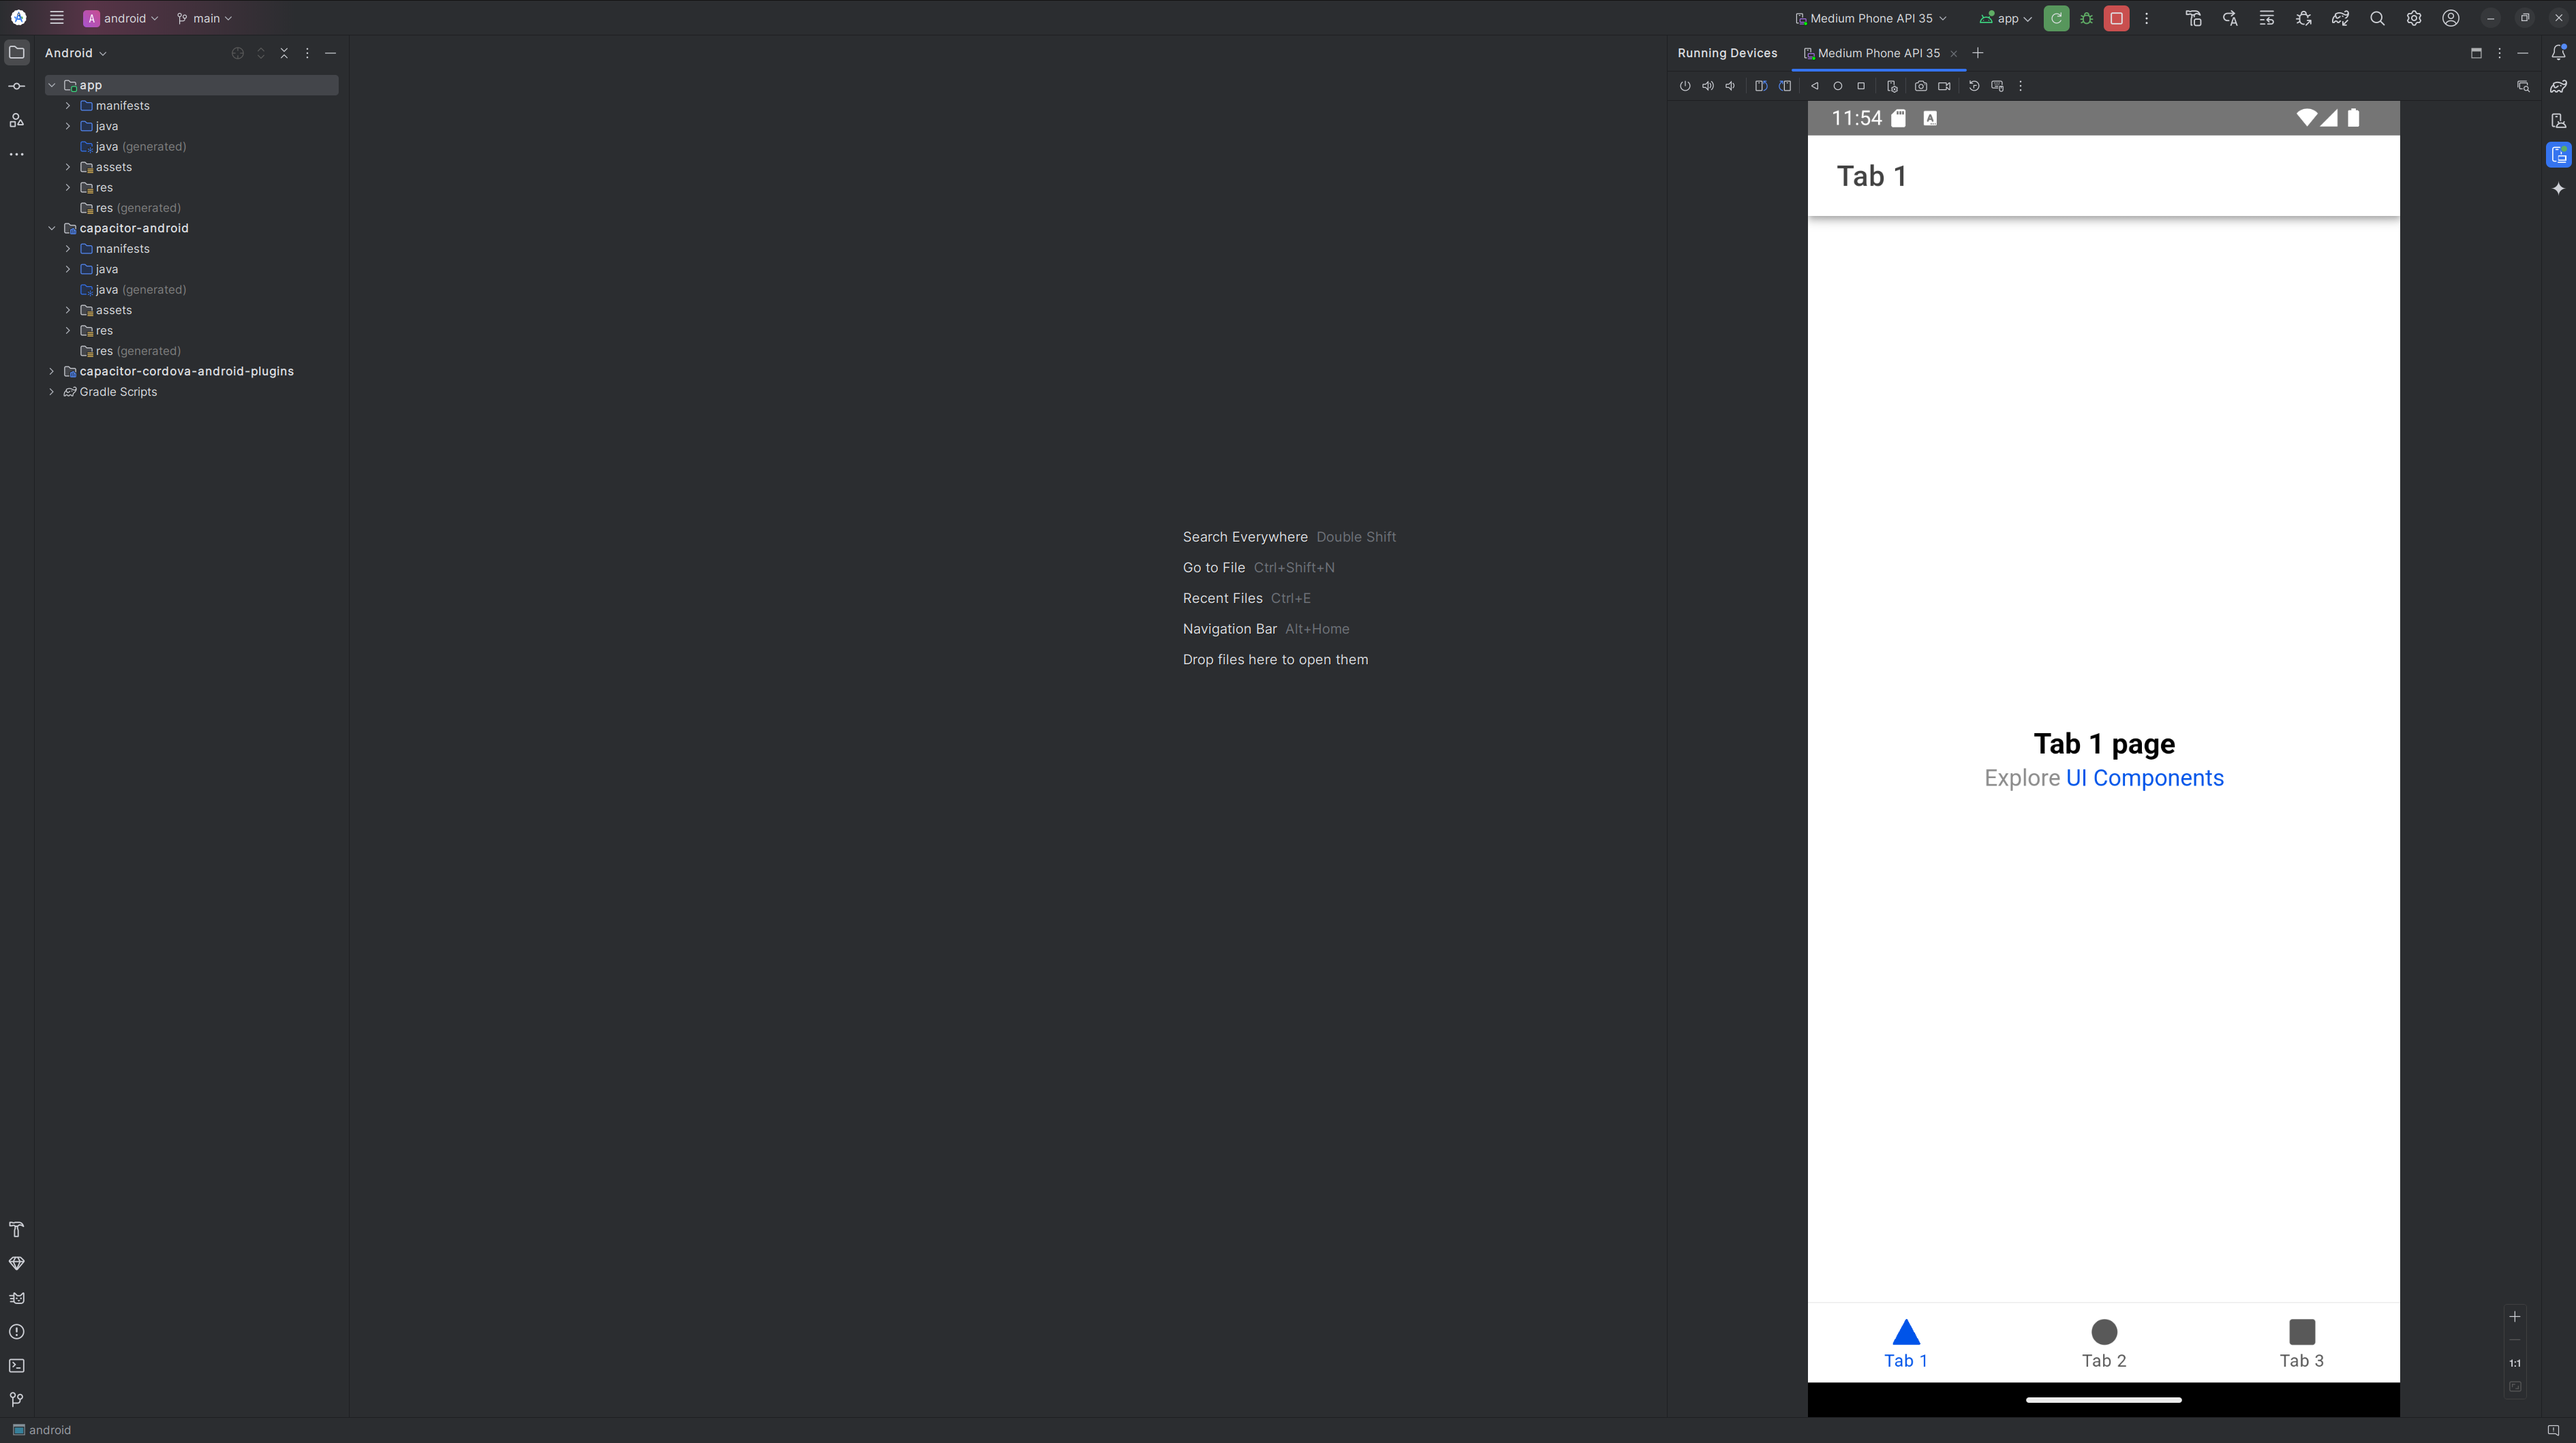
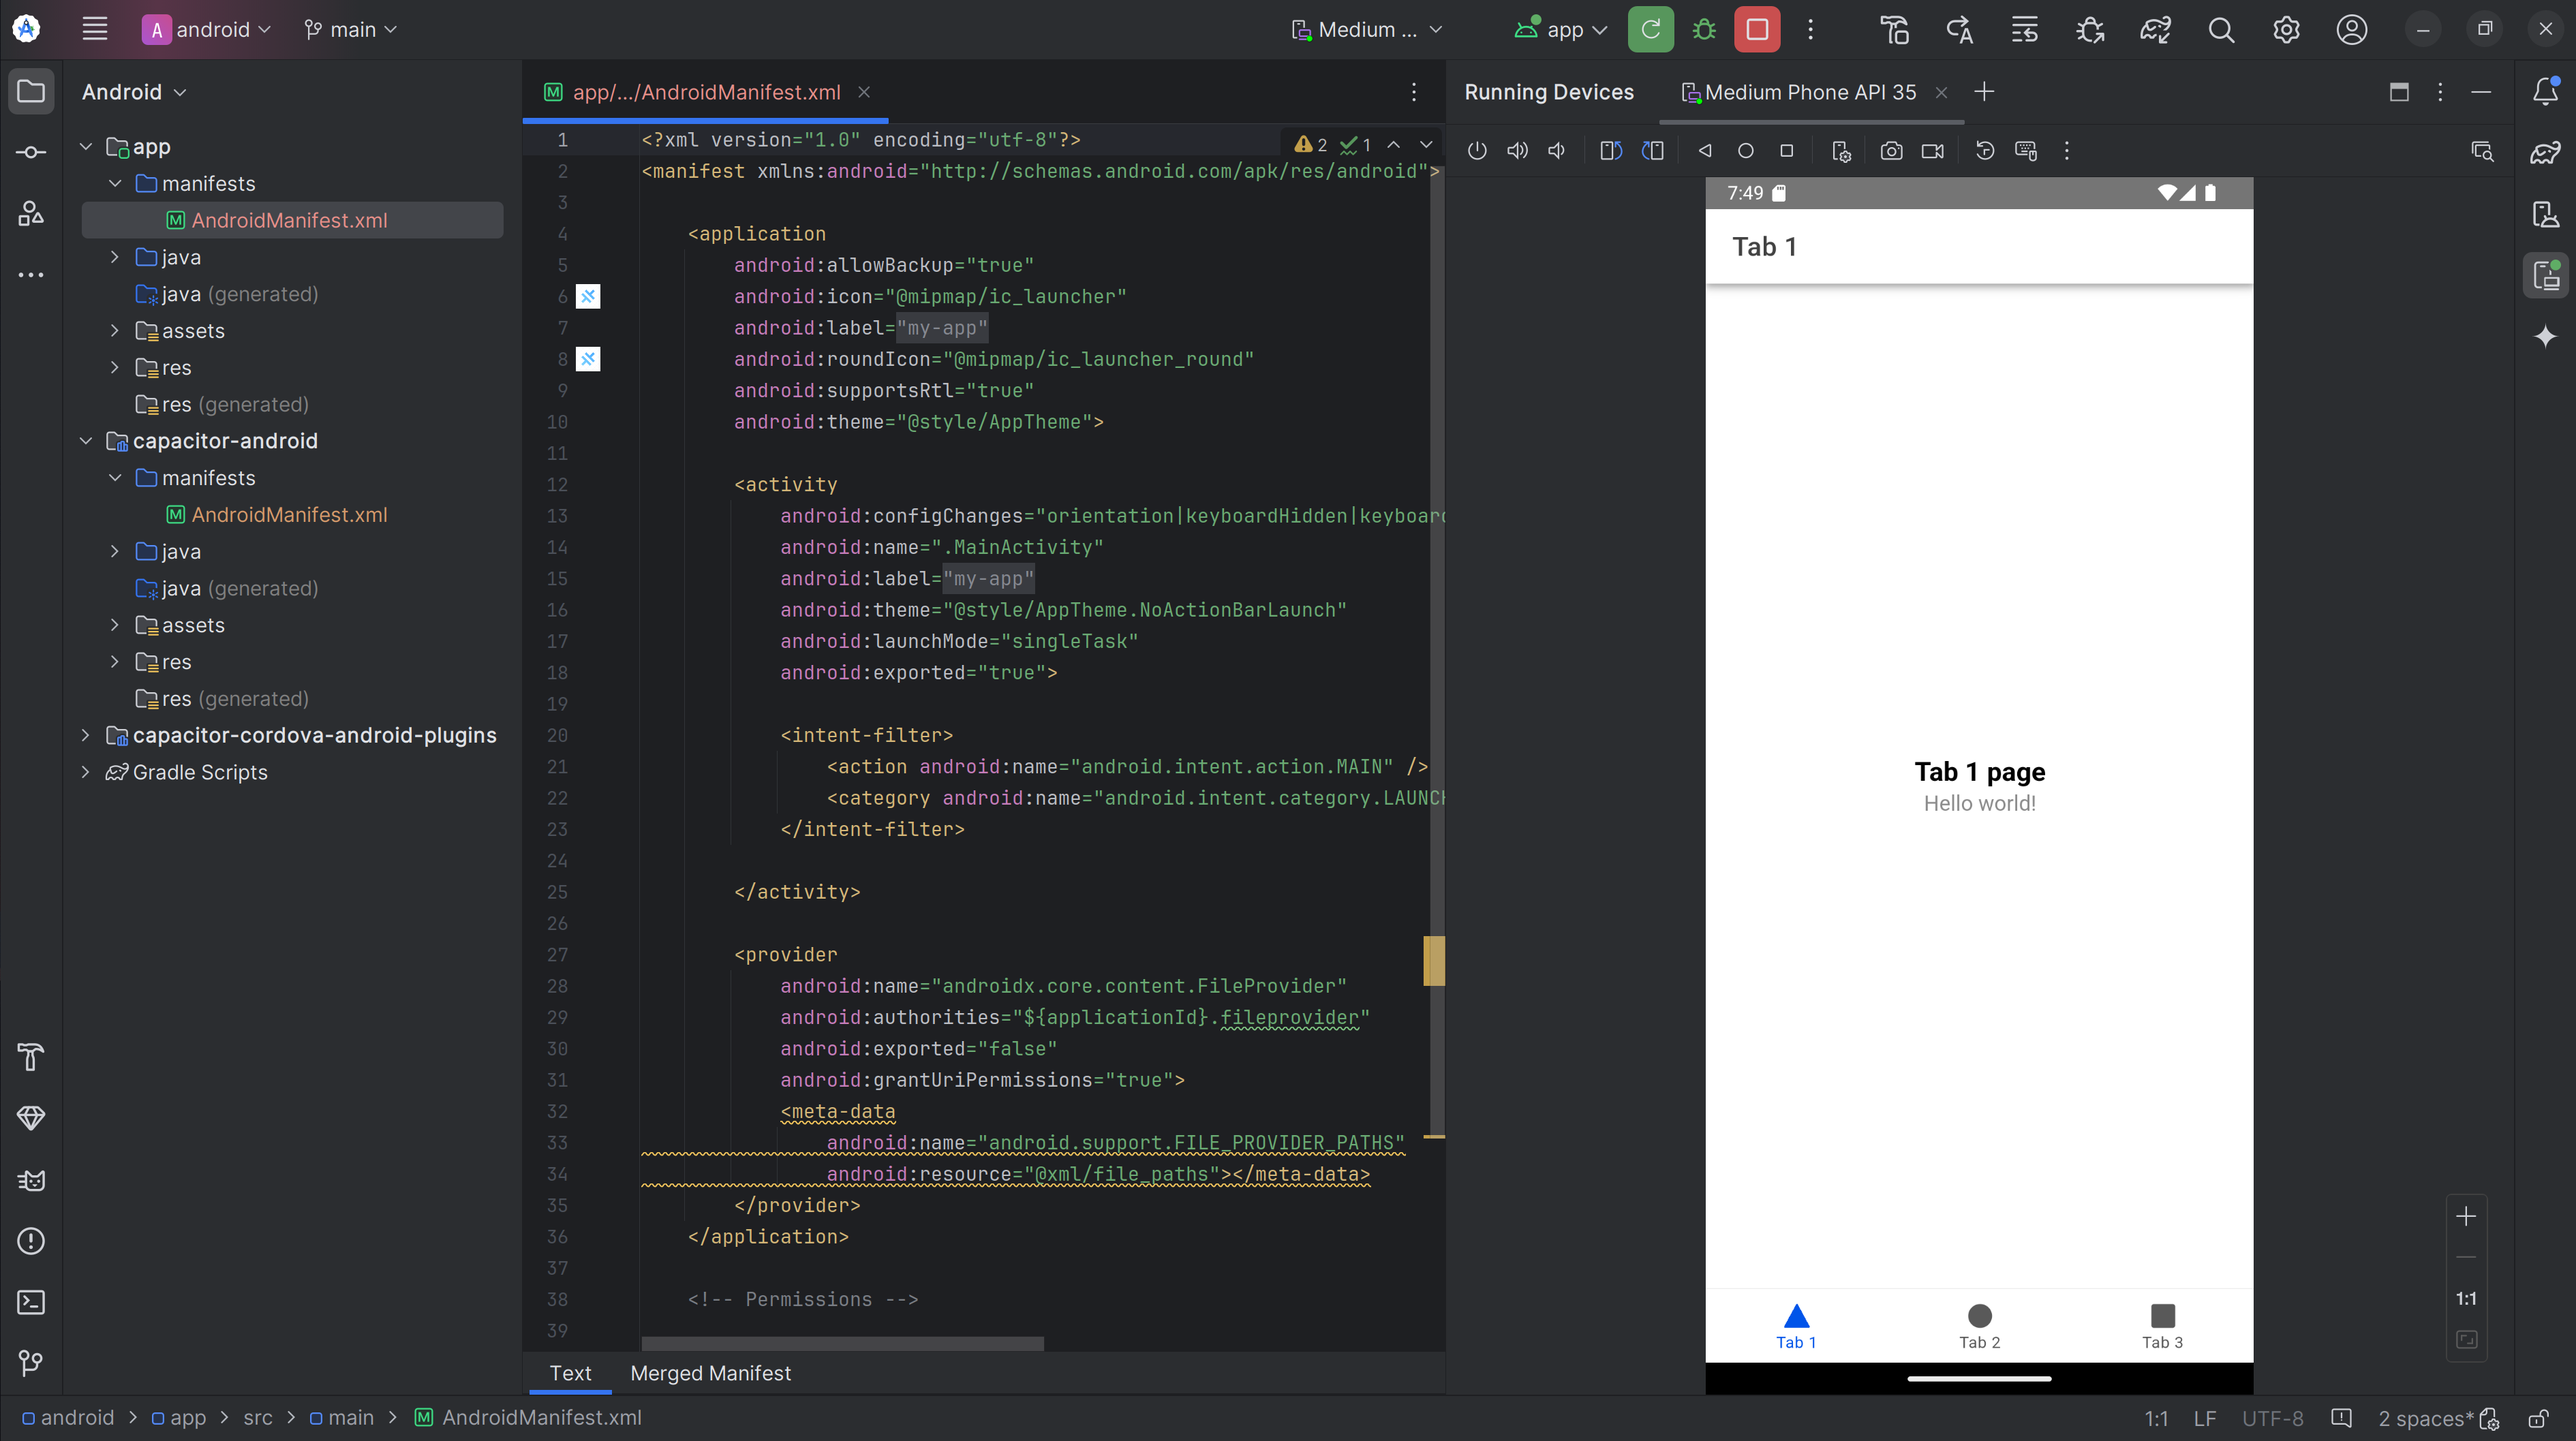
Update "A Practical guide to building cross-platform apps with Angular, Ionic, Capacitor, and Nx"

diff --git a/content/blog/a-practical-guide-to-building-cross-platform-apps-with-angular-ionic-capacitor-and-nx/index.md b/content/blog/a-practical-guide-to-building-cross-platform-apps-with-angular-ionic-capacitor-and-nx/index.md
@@ -73,8 +73,7 @@ Download and install [Android Studio](https://developer.android.com/studio) to e
 
 ![Android Studio Icon](./studio.svg)
 
-> **Note:** 📌<br>
-> Check the installation guide for more information: https://developer.android.com/studio/install
+> **Note:** 📌 <br> Check the installation guide for more information: https://developer.android.com/studio/install
 
 ### 3.2 Add the Android Platform
 
@@ -109,43 +108,93 @@ Android Studio will open, displaying a project view similar to this:
 
 ### 3.5 Run the App on your Connected Device (optional)
 
-1. Activate the developer mode on your device ([guide](https://developer.android.com/studio/debug/dev-options)).
-2. Setup your device for development ([guide](https://developer.android.com/studio/run/device)).
+Testing on a real device provides the most accurate results, as it replicates real-world conditions. Follow these steps to set up and deploy your app to a physical Android device.
 
-### 4.0 Apply Your Changes
+1. [**Activate the developer mode on your device.**](https://developer.android.com/studio/debug/dev-options)
+2. [**Setup your device for development.**](https://developer.android.com/studio/run/device)
 
-To reflect your modifications in Android Studio, rebuild your app:
+![Physical Device](./device.png)
+
+### 4.0 Apply and Test Your Changes on Android
+
+After making changes to your app, ensure that your modifications are reflected on the Android platform. Rebuild your app to generate the latest build files:
 
 ```bash
 nx build my-app
 ```
 
-Sync your app's changes to the Android platform:
+Sync changes with the Android platform:
 
 ```bash
 nx run my-app:sync:android
 ```
 
-Now, rerun the app in Android Studio to see your changes applied.
+This updates the Android project with the latest build and configuration changes. Now, open your app in Android Studio again and re-run it to see your changes.
 
-> **Note:** 📌<br>
-> To automatically rebuild the app when running the `sync` target, configure `targetDefaults` in `nx.json`.
+### 4.1 Live Reload for Faster Iteration
 
-```json
-{
-  "targetDefaults": {
-    "sync": {
-      "dependsOn": ["build"]
-    }
-  }
+To enable live reload on an Android emulator or physical device, update your Capacitor configuration. This feature allows your app to reflect changes in real-time during development.
+
+#### Update the Capacitor Configuration
+
+Replace your `capacitor.config.ts` with the following setup:
+
+```ts
+import { CapacitorConfig } from '@capacitor/cli';
+import * as os from 'os';
+
+const config: CapacitorConfig = {
+  appId: 'io.ionic.starter',
+  appName: 'my-app',
+  webDir: '../../dist/apps/my-app/browser',
+  bundledWebRuntime: false,
+  server: {
+    androidScheme: 'https',
+  },
+};
+
+if (process.env.LIVE === 'true') {
+  const localIp = getLocalIp();
+  const port = process.env.PORT || '4200';
+  config.server = { url: `http://${localIp}:${port}`, cleartext: true };
+} else {
+  Reflect.deleteProperty(config, 'server');
 }
+
+function getLocalIp() {
+  const interfaces = os.networkInterfaces();
+  const addresses = Object.values(interfaces)
+    .flat()
+    .filter((details) => details?.family === 'IPv4' && !details?.internal)
+    .map((details) => details?.address);
+
+  return addresses[0];
+}
+
+export default config;
 ```
+
+> **Note: 📌** <br> This configuration dynamically sets the server URL to your local network's IP address when live reload is enabled.
+
+#### Serve Your App with Live Reload
+
+Set the `LIVE` environment variable to `true` before syncing the Android platform:
+
+```bash
+LIVE=true nx run my-app:sync:android
+```
+
+Run the app's development server and make it accessible on your local network:
+
+```bash
+nx serve my-app --host 0.0.0.0
+```
+
+Finally, re-run your app in Android Studio. The app will now automatically reload as you make changes.
 
 ## Conclusion
 
-In this article, you’ve set up an Nx workspace, configured Angular, Ionic, and Capacitor, and successfully ran your app on the web and Android platforms. With these foundations in place, you’re ready to expand your app’s capabilities and target additional platforms.
-
-Stay tuned for the next part of this series, where we’ll dive deeper into building and deploying cross-platform features.
+In this article, you’ve set up an Nx workspace, configured Angular, Ionic, and Capacitor, and successfully ran your app on the web and Android platforms. With these foundations in place, you’re ready to expand your app’s capabilities and target additional platforms. Stay tuned for the next part of this series, where we’ll dive deeper into building and deploying cross-platform features.
 
 ### References:
 
